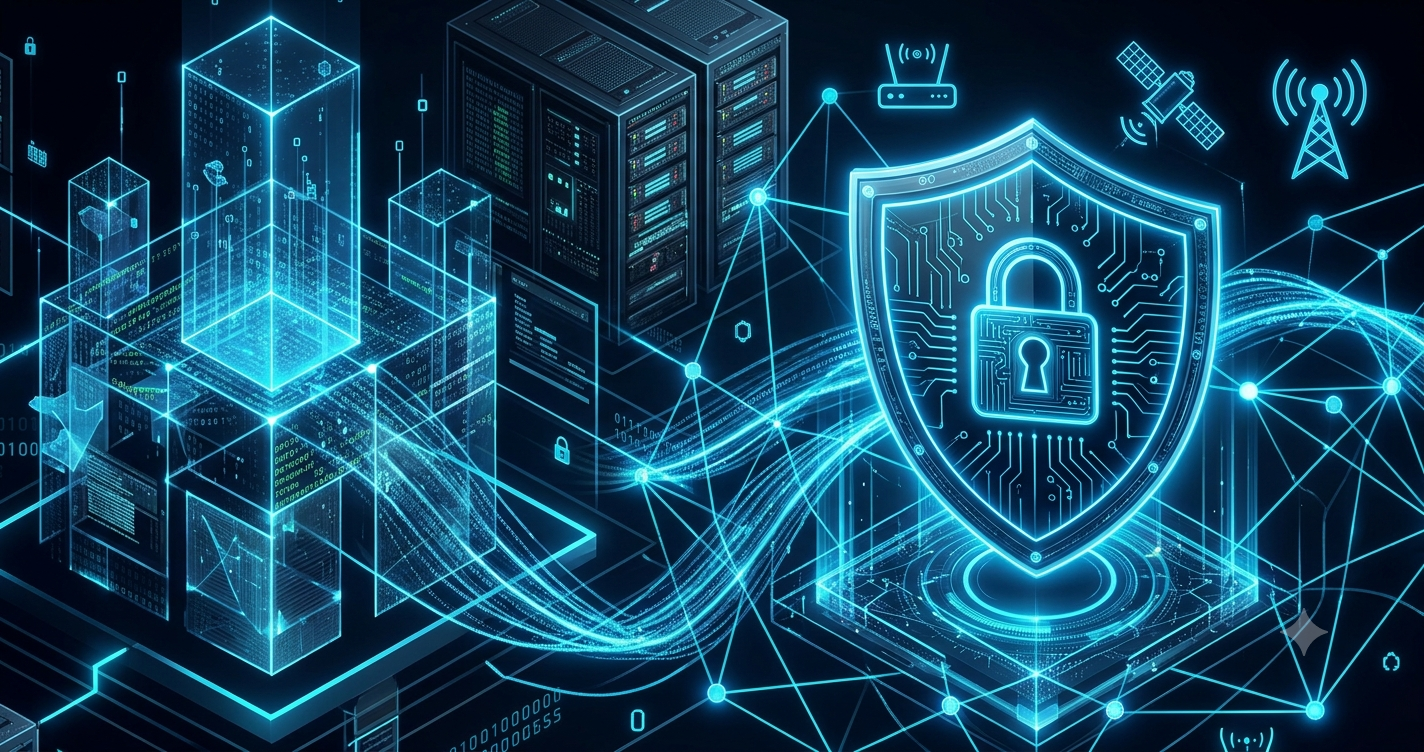
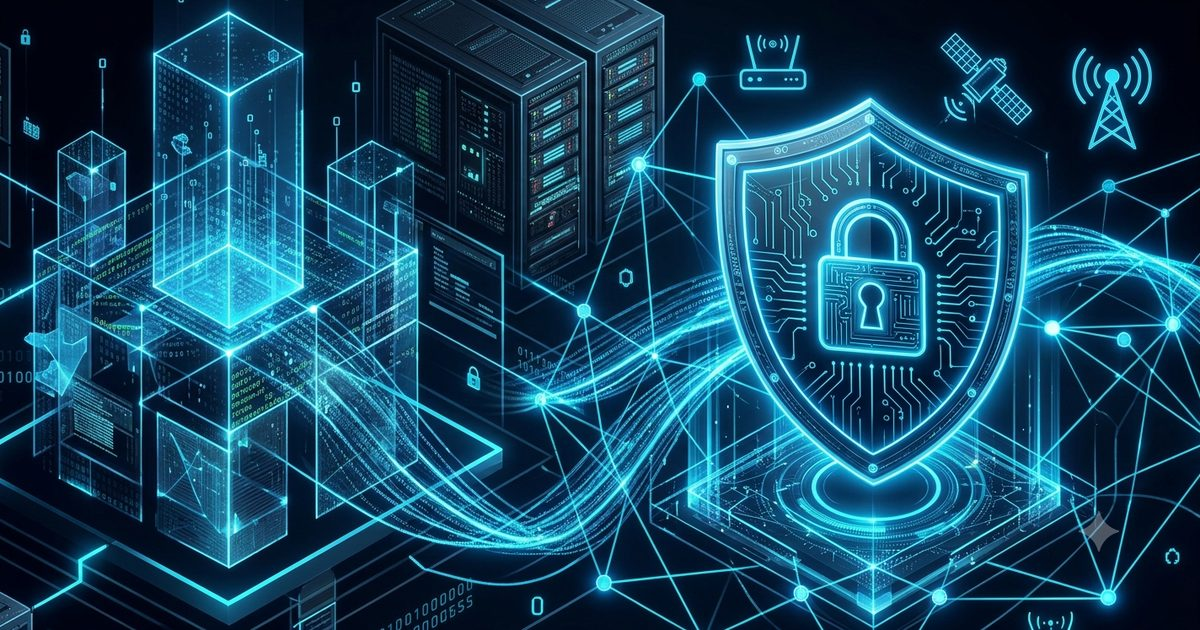
Add Experience & Education, 9 new certs, Flask audit project; optimize OG image
- Experience: internship at RH Rental (Computing Dept. Advisor, 180 h) —
  network deployment, monitoring, structured cabling, security policies, T1/T2 support
- Education: Duoc UC, final (8th) semester
- 9 new certifications (28 total): the two Career Path exams, Endpoint Security,
  Network Support and Security, Network Addressing and Basic Troubleshooting,
  Getting Started with Packet Tracer, Data Science Essentials with Python,
  Greenhouse Gas Accounting for IT, Managing a Business Venture
- New project card: Flask Web App Security Audit (5 findings, OWASP ZAP evidence,
  per-finding fixes) -> github.com/hu-herrera/flask-security-audit
- Fix the two CCNP dates that were swapped: Advanced Routing is Mar 11 2026,
  Core Networking is Jun 25 2026 (per certificate + NetAcad transcript)
- Stats updated: 28 certs, 4 live projects, 21 verified badges
- og-image.jpg: 2.3 MB -> 195 KB and correctly sized to 1200x630 (matches the
  og:image meta tags); whole page now 272 KB

diff --git a/index.html b/index.html
@@ -20,7 +20,7 @@
 <meta property="og:image"       content="https://cv-hh.pages.dev/og-image.jpg">
 <meta property="og:image:width" content="1200">
 <meta property="og:image:height" content="630">
-<meta property="article:published_time" content="2026-06-30">
+<meta property="article:published_time" content="2026-08-01">
 
 <!-- Twitter Card -->
 <meta name="twitter:card"        content="summary_large_image">
@@ -211,6 +211,16 @@ h1 {
 .about-text { font-size:.9rem; color:var(--soft); line-height:1.75; margin-bottom:1rem; }
 .about-text strong { color:#34d399; font-weight:600; }
 
+/* Experience / Education */
+.exp-item + .exp-item { margin-top:1rem; padding-top:1rem; border-top:1px solid rgba(255,255,255,.04); }
+.exp-head { display:flex; align-items:baseline; justify-content:space-between; gap:.6rem; flex-wrap:wrap; }
+.exp-role { font-size:.85rem; font-weight:600; color:var(--text); }
+.exp-org { font-size:.75rem; color:var(--muted); margin:.2rem 0 .5rem; }
+.exp-list { list-style:none; display:flex; flex-direction:column; gap:.4rem; }
+.exp-list li { position:relative; padding-left:1rem; font-size:.8rem; color:var(--soft); line-height:1.5; }
+.exp-list li::before { content:''; position:absolute; left:0; top:.55em; width:5px; height:5px; border-radius:50%; background:var(--purple); }
+.exp-list strong { color:#34d399; font-weight:600; }
+
 /* Certs */
 .cert-group-label { font-size:.63rem; font-family:var(--font-mono); text-transform:uppercase; letter-spacing:.1em; color:var(--muted); margin:1rem 0 .5rem; }
 .cert-group-label:first-child { margin-top:0; }
@@ -384,17 +394,17 @@ h1 {
 
     <div class="stats-bar" role="list" aria-label="Key highlights">
       <div class="stat" role="listitem">
-        <span class="stat-num">19<span>+</span></span>
+        <span class="stat-num">28</span>
         <span class="stat-label">Certifications</span>
       </div>
       <div class="stat-divider" aria-hidden="true"></div>
       <div class="stat" role="listitem">
-        <span class="stat-num">3</span>
+        <span class="stat-num">4</span>
         <span class="stat-label">Live projects</span>
       </div>
       <div class="stat-divider" aria-hidden="true"></div>
       <div class="stat" role="listitem">
-        <span class="stat-num">12</span>
+        <span class="stat-num">21</span>
         <span class="stat-label">Verified badges</span>
       </div>
       <div class="stat-divider" aria-hidden="true"></div>
@@ -439,6 +449,42 @@ h1 {
         </div>
       </div>
 
+      <!-- Experience -->
+      <div class="card reveal">
+        <p class="card-title"><i class="fas fa-briefcase" aria-hidden="true"></i> Experience</p>
+        <div class="exp-item">
+          <div class="exp-head">
+            <span class="exp-role">Computing Department Advisor</span>
+            <span class="tag tag-year">180 h · 2026</span>
+          </div>
+          <p class="exp-org">RH Rental Arriendo de Maquinarias SpA · Santiago, Chile</p>
+          <ul class="exp-list">
+            <li>Deployed and configured network infrastructure: routers, switches and wireless access points.</li>
+            <li>Monitored and diagnosed the network for early fault detection and resolution.</li>
+            <li>Built structured cabling and organized communication racks to standard.</li>
+            <li>Applied security policies: perimeter controls, access control, credentials and firewall management.</li>
+            <li>Delivered <strong>Tier 1 &amp; Tier 2 support</strong> for connectivity, web and email incidents.</li>
+          </ul>
+        </div>
+      </div>
+
+      <!-- Education -->
+      <div class="card reveal">
+        <p class="card-title"><i class="fas fa-graduation-cap" aria-hidden="true"></i> Education</p>
+        <div class="exp-item">
+          <div class="exp-head">
+            <span class="exp-role">Networking &amp; Telecommunications Engineering</span>
+            <span class="tag tag-year">8th sem.</span>
+          </div>
+          <p class="exp-org">Duoc UC, sede Maipú · Santiago, Chile</p>
+          <p class="about-text" style="margin:.5rem 0 0;font-size:.82rem;">
+            Final semester in progress. Remaining: Capstone project and professional
+            internship. CCNA, CCNP Enterprise, CyberOps and DevNet completed on-site with
+            an instructor — each approved with top marks at the academy.
+          </p>
+        </div>
+      </div>
+
       <!-- Certifications -->
       <div class="card reveal">
         <p class="card-title"><i class="fas fa-certificate" aria-hidden="true"></i> Certifications</p>
@@ -446,9 +492,21 @@ h1 {
         <p class="cert-group-label">Cybersecurity</p>
         <div class="cert-item">
           <div class="cert-dot done" aria-hidden="true"></div>
-          <span class="cert-name">Junior Cybersecurity Analyst Career Path</span>
+          <span class="cert-name">Cybersecurity Defense Analyst Career Path <small>Exam</small></span>
+          <span class="tag tag-cisco">Cisco</span>
+          <span class="tag tag-year">Jul 01, 2026</span>
+        </div>
+        <div class="cert-item">
+          <div class="cert-dot done" aria-hidden="true"></div>
+          <span class="cert-name">Junior Cybersecurity Analyst Career Path <small>Exam</small></span>
           <span class="tag tag-cisco">Cisco</span>
           <span class="tag tag-year">Jun 26, 2026</span>
+        </div>
+        <div class="cert-item">
+          <div class="cert-dot done" aria-hidden="true"></div>
+          <span class="cert-name">Endpoint Security</span>
+          <span class="tag tag-cisco">Cisco</span>
+          <span class="tag tag-year">Jun 30, 2026</span>
         </div>
         <div class="cert-item">
           <div class="cert-dot done" aria-hidden="true"></div>
@@ -483,15 +541,21 @@ h1 {
         <p class="cert-group-label">Networking &amp; IoT</p>
         <div class="cert-item">
           <div class="cert-dot done" aria-hidden="true"></div>
+          <span class="cert-name">Network Technician Career Path <small>Exam</small></span>
+          <span class="tag tag-cisco">Cisco</span>
+          <span class="tag tag-year">Jul 01, 2026</span>
+        </div>
+        <div class="cert-item">
+          <div class="cert-dot done" aria-hidden="true"></div>
           <span class="cert-name">CCNP Enterprise: Advanced Routing</span>
           <span class="tag tag-cisco">Cisco</span>
-          <span class="tag tag-year">DUOC UC · Jun 11, 2026</span>
+          <span class="tag tag-year">DUOC UC · Mar 11, 2026</span>
         </div>
         <div class="cert-item">
           <div class="cert-dot done" aria-hidden="true"></div>
           <span class="cert-name">CCNP Enterprise: Core Networking</span>
           <span class="tag tag-cisco">Cisco</span>
-          <span class="tag tag-year">DUOC UC · Mar 25, 2026</span>
+          <span class="tag tag-year">DUOC UC · Jun 25, 2026</span>
         </div>
         <div class="cert-item">
           <div class="cert-dot done" aria-hidden="true"></div>
@@ -519,6 +583,24 @@ h1 {
         </div>
         <div class="cert-item">
           <div class="cert-dot done" aria-hidden="true"></div>
+          <span class="cert-name">Network Support and Security</span>
+          <span class="tag tag-cisco">Cisco</span>
+          <span class="tag tag-year">Jun 30, 2026</span>
+        </div>
+        <div class="cert-item">
+          <div class="cert-dot done" aria-hidden="true"></div>
+          <span class="cert-name">Network Addressing and Basic Troubleshooting</span>
+          <span class="tag tag-cisco">Cisco</span>
+          <span class="tag tag-year">Jun 27, 2026</span>
+        </div>
+        <div class="cert-item">
+          <div class="cert-dot done" aria-hidden="true"></div>
+          <span class="cert-name">Getting Started with Cisco Packet Tracer</span>
+          <span class="tag tag-cisco">Cisco</span>
+          <span class="tag tag-year">Mar 14, 2025</span>
+        </div>
+        <div class="cert-item">
+          <div class="cert-dot done" aria-hidden="true"></div>
           <span class="cert-name">Troubleshooting &amp; Maintaining Cisco IP Networks</span>
           <span class="tag tag-cisco">Cisco</span>
           <span class="tag tag-year">2025</span>
@@ -529,7 +611,13 @@ h1 {
           <span class="tag tag-year">DUOC UC · 2025</span>
         </div>
 
-        <p class="cert-group-label">Cloud &amp; AI</p>
+        <p class="cert-group-label">Data, Cloud &amp; AI</p>
+        <div class="cert-item">
+          <div class="cert-dot done" aria-hidden="true"></div>
+          <span class="cert-name">Data Science Essentials with Python</span>
+          <span class="tag tag-cisco">Cisco</span>
+          <span class="tag tag-year">Jul 01, 2026</span>
+        </div>
         <div class="cert-item">
           <div class="cert-dot done" aria-hidden="true"></div>
           <span class="cert-name">Artificial Intelligence Fundamentals</span>
@@ -561,6 +649,20 @@ h1 {
           <span class="cert-name">Linux Essentials</span>
           <span class="tag tag-dev">Cisco</span>
           <span class="tag tag-year">Jun 26, 2026</span>
+        </div>
+
+        <p class="cert-group-label">Business &amp; Sustainability</p>
+        <div class="cert-item">
+          <div class="cert-dot done" aria-hidden="true"></div>
+          <span class="cert-name">Managing a Business Venture</span>
+          <span class="tag tag-cisco">Cisco</span>
+          <span class="tag tag-year">Jul 02, 2026</span>
+        </div>
+        <div class="cert-item">
+          <div class="cert-dot done" aria-hidden="true"></div>
+          <span class="cert-name">Greenhouse Gas Accounting for IT</span>
+          <span class="tag tag-cisco">Cisco</span>
+          <span class="tag tag-year">Jul 01, 2026</span>
         </div>
 
         <div class="cert-note">
@@ -660,7 +762,7 @@ h1 {
 
         </div>
         <p style="font-size:.7rem;color:var(--muted);margin-top:.85rem;font-family:var(--font-mono);">
-          + 4 more verified badges on <a href="https://www.credly.com/users/hugo-herrera.690e9820/badges" target="_blank" rel="noopener noreferrer" style="color:var(--purple);text-decoration:none;">Credly ↗</a>
+          See all verified badges on <a href="https://www.credly.com/users/hugo-herrera.690e9820/badges" target="_blank" rel="noopener noreferrer" style="color:var(--purple);text-decoration:none;">Credly ↗</a>
         </p>
       </div>
 
@@ -767,6 +869,42 @@ h1 {
                target="_blank" rel="noopener noreferrer"
                class="btn btn-primary"
                aria-label="View CyberOps SOC Lab on GitHub (opens in new tab)">
+              <i class="fab fa-github" aria-hidden="true"></i> View on GitHub
+            </a>
+          </div>
+        </article>
+
+        <!-- Flask Security Audit -->
+        <article class="project-card p-live reveal">
+          <div class="project-header">
+            <h2 class="project-title">
+              <i class="fas fa-shield-halved" aria-hidden="true"></i>
+              Flask Web App Security Audit
+            </h2>
+            <span class="project-status s-live" aria-label="Live project">Live ↗</span>
+          </div>
+          <p class="project-desc">
+            Full <strong>penetration test</strong> of a deliberately vulnerable Flask app:
+            five findings — Command Injection, Reflected XSS, CSRF, SQL Injection and an
+            exposed debug console (RCE) — each located in source, proven with an
+            <strong>OWASP ZAP scan of 999 requests</strong> plus manual exploits, and shipped
+            with its own remediation. Every attack was run and verified to fire against the
+            target and to be blocked against the hardened version.
+          </p>
+          <div class="tech-row" role="list" aria-label="Technologies">
+            <span class="tech t-sec" role="listitem">OWASP ZAP</span>
+            <span class="tech t-sec" role="listitem">Burp Suite</span>
+            <span class="tech t-sec" role="listitem">OWASP Top 10</span>
+            <span class="tech"       role="listitem">Python</span>
+            <span class="tech"       role="listitem">Flask</span>
+            <span class="tech"       role="listitem">SQLite</span>
+            <span class="tech t-oss" role="listitem">Open Source</span>
+          </div>
+          <div class="project-footer">
+            <a href="https://github.com/hu-herrera/flask-security-audit"
+               target="_blank" rel="noopener noreferrer"
+               class="btn btn-primary"
+               aria-label="View Flask Web App Security Audit on GitHub (opens in new tab)">
               <i class="fab fa-github" aria-hidden="true"></i> View on GitHub
             </a>
           </div>
